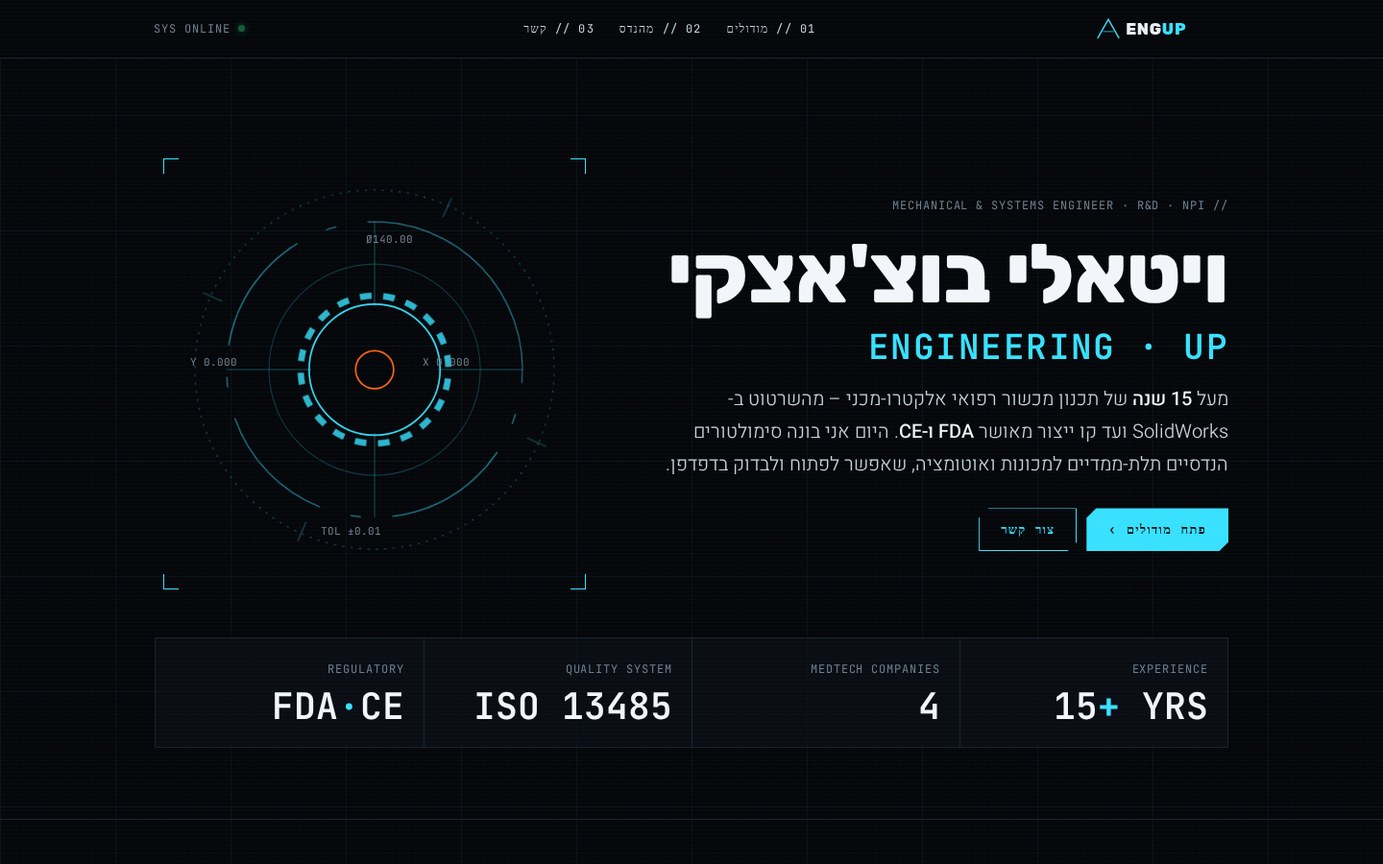
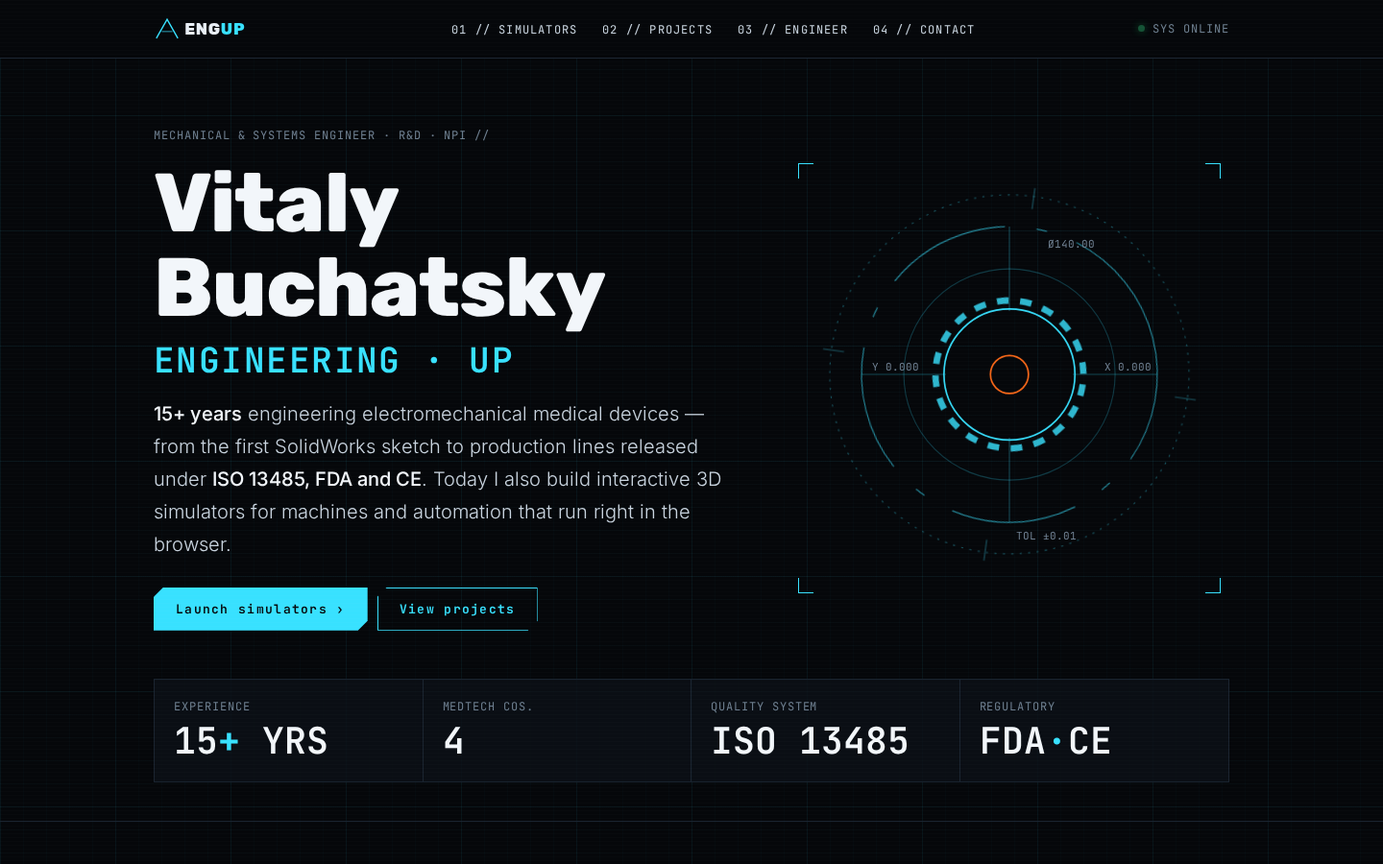
English LTR, Projects & Designs gallery from base44 + lightbox, mobile menu, telemetry label fix

diff --git a/index.html b/index.html
@@ -1,12 +1,12 @@
-<!doctype html><html lang="he" dir="rtl"><head><meta charset="utf-8"><meta name="viewport" content="width=device-width,initial-scale=1">
-<title>EngUp · ויטאלי בוצ'אצקי · הנדסת מערכות ומכונות</title>
-<meta name="description" content="EngUp – ויטאלי בוצ'אצקי, מהנדס מערכות ומכונות, מוביל R&D ו-NPI במכשור רפואי. סימולטורים הנדסיים אינטראקטיביים.">
+<!doctype html><html lang="en" dir="ltr"><head><meta charset="utf-8"><meta name="viewport" content="width=device-width,initial-scale=1">
+<title>EngUp · Vitaly Buchatsky · Mechanical &amp; Systems Engineer</title>
+<meta name="description" content="EngUp — Vitaly Buchatsky, mechanical &amp; systems engineer. 15+ years of electromechanical medical device R&amp;D and NPI. Interactive engineering simulators and design portfolio.">
 <meta name="theme-color" content="#05070A"><link rel="icon" href="favicon.svg" type="image/svg+xml">
-<link rel="preconnect" href="https://fonts.googleapis.com"><link href="https://fonts.googleapis.com/css2?family=Heebo:wght@300;400;500;700&family=Rubik:wght@600;800&family=JetBrains+Mono:wght@400;600&display=swap" rel="stylesheet">
+<link rel="preconnect" href="https://fonts.googleapis.com"><link href="https://fonts.googleapis.com/css2?family=Inter:wght@300;400;500;700&family=Rubik:wght@600;800&family=JetBrains+Mono:wght@400;600&display=swap" rel="stylesheet">
 <style>
 :root{--bg:#05070A;--p:#0B1016;--ln:#1A2430;--tx:#C9D4DF;--hi:#F2F6FA;--mu:#6E7F90;--ac:#38E1FF;--or:#FF6B1A;--m:'JetBrains Mono',monospace}
 *{box-sizing:border-box}html{scroll-behavior:smooth}
-body{margin:0;background:var(--bg);color:var(--tx);font:16px/1.7 Heebo,sans-serif;overflow-x:hidden}
+body{margin:0;background:var(--bg);color:var(--tx);font:16px/1.7 Inter,sans-serif;overflow-x:hidden}
 body:before{content:"";position:fixed;inset:0;pointer-events:none;z-index:0;background-image:linear-gradient(#38e1ff0b 1px,transparent 1px),linear-gradient(90deg,#38e1ff0b 1px,transparent 1px),linear-gradient(#38e1ff05 1px,transparent 1px),linear-gradient(90deg,#38e1ff05 1px,transparent 1px);background-size:120px 120px,120px 120px,24px 24px,24px 24px}
 body:after{content:"";position:fixed;inset:0;pointer-events:none;z-index:50;background:repeating-linear-gradient(0deg,#fff0 0 3px,#ffffff04 3px 4px)}
 main,nav,footer{position:relative;z-index:1}
@@ -21,17 +21,17 @@ nav ul a{color:var(--tx);text-decoration:none;font-family:var(--m);font-size:12p
 .hero{padding:70px 0 40px;position:relative;min-height:88vh;display:flex;align-items:center}
 .hg{display:grid;grid-template-columns:1.15fr .85fr;gap:40px;align-items:center}
 .hero h1{font-size:clamp(42px,8vw,86px);line-height:1.02;letter-spacing:-.01em;margin:18px 0}
-.hero h1 em{font-style:normal;display:block;font-size:.42em;font-weight:600;color:var(--ac);font-family:var(--m);letter-spacing:.04em;margin-top:12px;direction:ltr;text-align:right}
+.hero h1 em{font-style:normal;display:block;font-size:.42em;font-weight:600;color:var(--ac);font-family:var(--m);letter-spacing:.04em;margin-top:12px;}
 .lead{font-size:clamp(17px,2vw,20px);font-weight:300;max-width:620px;color:var(--tx)}
 .lead b{color:var(--hi);font-weight:500}
-.btn{display:inline-flex;gap:10px;align-items:center;padding:13px 22px;font:600 13px var(--m);letter-spacing:.1em;text-decoration:none;border:1px solid var(--ac);color:var(--bg);background:var(--ac);margin:8px 0 0 10px;clip-path:polygon(10px 0,100% 0,100% calc(100% - 10px),calc(100% - 10px) 100%,0 100%,0 10px);transition:.25s}
+.btn{display:inline-flex;gap:10px;align-items:center;padding:13px 22px;font:600 13px var(--m);letter-spacing:.1em;text-decoration:none;border:1px solid var(--ac);color:var(--bg);background:var(--ac);margin:8px 10px 0 0;clip-path:polygon(10px 0,100% 0,100% calc(100% - 10px),calc(100% - 10px) 100%,0 100%,0 10px);transition:.25s}
 .btn:hover{box-shadow:0 0 30px #38e1ff66;transform:translateY(-2px)}.btn.o{background:transparent;color:var(--ac)}
 .hud{position:relative;aspect-ratio:1;max-width:440px;width:100%;margin:auto}
 .hud svg{width:100%;height:100%;overflow:visible}.rot{transform-origin:200px 200px;animation:r 40s linear infinite}.rot2{transform-origin:200px 200px;animation:r 22s linear infinite reverse}@keyframes r{to{transform:rotate(360deg)}}
 .corner{position:absolute;width:16px;height:16px;border:1px solid var(--ac)}.c1{top:0;right:0;border-width:1px 1px 0 0}.c2{top:0;left:0;border-width:1px 0 0 1px}.c3{bottom:0;right:0;border-width:0 1px 1px 0}.c4{bottom:0;left:0;border-width:0 0 1px 1px}
 .tel{display:grid;grid-template-columns:repeat(4,1fr);border:1px solid var(--ln);background:#0b1016cc;margin-top:50px}
-.tel div{padding:18px 20px;border-left:1px solid var(--ln)}.tel div:last-child{border-left:0}
-.tel b{display:block;font:600 clamp(24px,3.4vw,38px) var(--m);color:var(--hi);direction:ltr;text-align:right}.tel b i{font-style:normal;color:var(--ac)}
+.tel div{padding:18px 20px;border-right:1px solid var(--ln);min-width:0}.tel div:last-child{border-right:0}.tel .m{display:block;white-space:nowrap;overflow:hidden;text-overflow:ellipsis}
+.tel b{display:block;font:600 clamp(24px,3.4vw,38px) var(--m);color:var(--hi)}.tel b i{font-style:normal;color:var(--ac)}
 section{padding:90px 0;border-top:1px solid var(--ln)}
 .sh{display:flex;align-items:baseline;gap:16px;margin-bottom:12px;flex-wrap:wrap}.sh .m{color:var(--ac);font-size:13px}
 h2{font-size:clamp(28px,4.5vw,44px)}.sub{color:var(--mu);margin:0 0 40px;max-width:640px}
@@ -47,25 +47,43 @@ h2{font-size:clamp(28px,4.5vw,44px)}.sub{color:var(--mu);margin:0 0 40px;max-wid
 .add{border:1px dashed var(--ln);display:flex;align-items:center;justify-content:center;min-height:200px;text-align:center}
 .cols{display:grid;grid-template-columns:1fr 1fr;gap:50px}
 .spec{border:1px solid var(--ln);background:var(--p)}.spec div{display:flex;justify-content:space-between;gap:16px;padding:12px 16px;border-bottom:1px solid var(--ln)}.spec div:last-child{border:0}
-.spec span:last-child{color:var(--hi);text-align:left}
-.tl{position:relative;padding-right:24px;border-right:1px solid var(--ln)}
-.tl div{position:relative;margin-bottom:26px}.tl div:before{content:"";position:absolute;right:-29px;top:8px;width:9px;height:9px;background:var(--bg);border:1px solid var(--ac);transform:rotate(45deg)}
+.spec span:last-child{color:var(--hi);text-align:right}
+.tl{position:relative;padding-left:24px;border-left:1px solid var(--ln)}
+.tl div{position:relative;margin-bottom:26px}.tl div:before{content:"";position:absolute;left:-29px;top:8px;width:9px;height:9px;background:var(--bg);border:1px solid var(--ac);transform:rotate(45deg)}
 .tl div:first-child:before{background:var(--ac);box-shadow:0 0 12px var(--ac)}
-.tl b{color:var(--hi);font-size:18px;font-family:Rubik}.tl .m{display:block;direction:ltr;text-align:right}
+.tl b{color:var(--hi);font-size:18px;font-family:Rubik}.tl .m{display:block}
 .ct a{display:flex;justify-content:space-between;align-items:center;padding:20px;border:1px solid var(--ln);background:var(--p);color:var(--hi);text-decoration:none;margin-bottom:12px;transition:.25s;font-family:var(--m);font-size:15px}
 .ct a:hover{border-color:var(--ac);color:var(--ac)}
 footer{border-top:1px solid var(--ln);padding:26px 0}footer .w{display:flex;justify-content:space-between;flex-wrap:wrap;gap:10px}
 .rv{opacity:0;transform:translateY(24px);transition:opacity .8s,transform .8s}.rv.in{opacity:1;transform:none}
-@media(max-width:820px){.hg,.cols{grid-template-columns:1fr}.hud{max-width:300px;order:-1}.hero{min-height:0;padding-top:40px}nav ul{display:none}.tel{grid-template-columns:1fr 1fr}.tel div:nth-child(2){border-left:0}.tel div:nth-child(-n+2){border-bottom:1px solid var(--ln)}.grid{grid-template-columns:1fr}section{padding:64px 0}}
+
+.mb{display:none;background:none;border:1px solid var(--ln);color:var(--ac);width:40px;height:40px;cursor:pointer;font:600 18px var(--m)}
+.dg{margin-bottom:56px;border:1px solid var(--ln);background:#0b1016cc}
+.dgh{display:grid;grid-template-columns:1.2fr 1fr;gap:0;border-bottom:1px solid var(--ln)}
+.dgh>div{padding:22px 24px}.dgh>div+div{border-left:1px solid var(--ln)}
+.dgh h3{font-size:clamp(20px,2.6vw,28px);margin:6px 0 10px}.dgh p{margin:0;font-weight:300;font-size:15px}
+.dgh .id{color:var(--c)}.dgh .spec{border:0;background:none}.dgh .spec div{padding:9px 0}
+.gal{display:grid;grid-template-columns:repeat(auto-fill,minmax(210px,1fr));gap:2px;background:#070a0e;grid-auto-flow:dense}
+.gal button{all:unset;cursor:zoom-in;position:relative;background:#070a0e;aspect-ratio:4/3;overflow:hidden;display:block}
+.gal button:first-child{grid-column:span 2;grid-row:span 2}
+.gal img{width:100%;height:100%;object-fit:cover;display:block;transition:.6s;filter:saturate(.9)}
+.gal button:hover img,.gal button:focus-visible img{transform:scale(1.06);filter:none}
+.gal button:focus-visible{outline:2px solid var(--c);outline-offset:-2px}
+.gal span{position:absolute;left:0;right:0;bottom:0;padding:22px 10px 8px;background:linear-gradient(transparent,#05070Aee);font:11px var(--m);letter-spacing:.08em;text-transform:uppercase;color:var(--tx)}
+.lb{position:fixed;inset:0;z-index:100;background:#03050Af2;display:none;align-items:center;justify-content:center;flex-direction:column;padding:56px 16px 20px}
+.lb.on{display:flex}.lb img{max-width:100%;max-height:calc(100vh - 130px);object-fit:contain;border:1px solid var(--ln)}
+.lb p{margin:12px 0 0;text-align:center}.lb button{position:absolute;background:#0b1016;border:1px solid var(--ln);color:var(--ac);width:46px;height:46px;font:20px var(--m);cursor:pointer}
+.lb .x{top:10px;right:10px}.lb .pv{left:10px;top:50%}.lb .nx{right:10px;top:50%}
+@media(max-width:820px){.mb{display:block}nav .st{display:none}nav ul.op{display:flex;position:absolute;top:60px;left:0;right:0;flex-direction:column;gap:0;background:#05070Af5;border-bottom:1px solid var(--ln)}nav ul.op a{display:block;padding:16px 20px;border-top:1px solid var(--ln)}.dgh{grid-template-columns:1fr}.dgh>div+div{border-left:0;border-top:1px solid var(--ln)}.gal{grid-template-columns:1fr 1fr}.lb .pv,.lb .nx{top:auto;bottom:14px}.hg,.cols{grid-template-columns:1fr}.hud{max-width:300px;order:-1}.hero{min-height:0;padding-top:40px}nav ul{display:none}.tel{grid-template-columns:1fr 1fr}.tel div:nth-child(2){border-right:0}.tel div:nth-child(-n+2){border-bottom:1px solid var(--ln)}.tel div{padding:14px}.tel .m{font-size:10px;letter-spacing:.04em}.grid{grid-template-columns:1fr}section{padding:64px 0}}
 @media(prefers-reduced-motion:reduce){*{animation:none!important;transition:none!important}.rv{opacity:1;transform:none}html{scroll-behavior:auto}}
 </style></head><body>
-<nav><div class="w"><a href="#"><img src="logo.svg" alt="EngUp"></a><ul><li><a href="#projects">01 // מודולים</a></li><li><a href="#about">02 // מהנדס</a></li><li><a href="#contact">03 // קשר</a></li></ul><span class="st m"><i class="dot"></i>SYS ONLINE</span></div></nav>
+<nav><div class="w"><a href="#"><img src="logo.svg" alt="EngUp"></a><ul id="nm"><li><a href="#projects">01 // SIMULATORS</a></li><li><a href="#designs">02 // PROJECTS</a></li><li><a href="#about">03 // ENGINEER</a></li><li><a href="#contact">04 // CONTACT</a></li></ul><span class="st m"><i class="dot"></i>SYS ONLINE</span><button class="mb" id="mb" aria-label="Menu" aria-expanded="false" aria-controls="nm">☰</button></div></nav>
 <main>
 <header class="hero"><div class="w"><div class="hg"><div>
-<div class="m" dir="ltr" style="text-align:right">MECHANICAL &amp; SYSTEMS ENGINEER · R&amp;D · NPI //</div>
-<h1>ויטאלי בוצ'אצקי<em>ENGINEERING · UP</em></h1>
-<p class="lead">מעל <b>15 שנה</b> של תכנון מכשור רפואי אלקטרו-מכני – מהשרטוט ב-SolidWorks ועד קו ייצור מאושר <b>FDA ו-CE</b>. היום אני בונה סימולטורים הנדסיים תלת-ממדיים למכונות ואוטומציה, שאפשר לפתוח ולבדוק בדפדפן.</p>
-<a class="btn" href="#projects">פתח מודולים ›</a><a class="btn o" href="#contact">צור קשר</a></div>
+<div class="m">MECHANICAL &amp; SYSTEMS ENGINEER · R&amp;D · NPI //</div>
+<h1>Vitaly Buchatsky<em>ENGINEERING · UP</em></h1>
+<p class="lead"><b>15+ years</b> engineering electromechanical medical devices — from the first SolidWorks sketch to production lines released under <b>ISO 13485, FDA and CE</b>. Today I also build interactive 3D simulators for machines and automation that run right in the browser.</p>
+<a class="btn" href="#projects">Launch simulators ›</a><a class="btn o" href="#designs">View projects</a></div>
 <div class="hud" aria-hidden="true"><i class="corner c1"></i><i class="corner c2"></i><i class="corner c3"></i><i class="corner c4"></i>
 <svg viewBox="0 0 400 400" fill="none" stroke="#38E1FF">
 <g class="rot" stroke-opacity=".35"><circle cx="200" cy="200" r="170" stroke-dasharray="2 6"/><path d="M200 22v20M200 358v20M22 200h20M358 200h20"/></g>
@@ -76,33 +94,44 @@ footer{border-top:1px solid var(--ln);padding:26px 0}footer .w{display:flex;just
 <path d="M60 200H140M260 200h80M200 60v80M200 260v80" stroke-opacity=".3"/>
 <g font-family="JetBrains Mono" font-size="10" fill="#6E7F90" stroke="none"><text x="236" y="80">Ø140.00</text><text x="290" y="196">X 0.000</text><text x="70" y="196">Y 0.000</text><text x="206" y="356">TOL ±0.01</text></g>
 </svg></div></div>
-<div class="tel"><div><span class="m">EXPERIENCE</span><b><span class="cnt" data-n="15">15</span><i>+</i> YRS</b></div><div><span class="m">MEDTECH COMPANIES</span><b class="cnt" data-n="4">4</b></div><div><span class="m">QUALITY SYSTEM</span><b>ISO<i> </i>13485</b></div><div><span class="m">REGULATORY</span><b>FDA<i>·</i>CE</b></div></div>
+<div class="tel"><div><span class="m">EXPERIENCE</span><b><span class="cnt" data-n="15">15</span><i>+</i> YRS</b></div><div><span class="m">MEDTECH COS.</span><b class="cnt" data-n="4">4</b></div><div><span class="m">QUALITY SYSTEM</span><b>ISO<i> </i>13485</b></div><div><span class="m">REGULATORY</span><b>FDA<i>·</i>CE</b></div></div>
 </div></header>
-<section id="projects"><div class="w"><div class="sh"><span class="m">01 //</span><h2>מודולים הנדסיים</h2></div><p class="sub">סימולטורים אינטראקטיביים שבניתי – כל אחד מתועד כמו גיליון מפרט. לחצו, פרקו מכלולים ובדקו בעצמכם.</p><div class="grid" id="grid"></div></div></section>
-<section id="about"><div class="w"><div class="sh"><span class="m">02 //</span><h2>פרופיל המהנדס</h2></div><p class="sub">מהנדס מערכות ומוביל R&amp;D ו-NPI: תכנון מוצרים רפואיים אלקטרו-מכניים, הקמת קווי ייצור, ניהול ECO ועמידה בתקני ISO 13485, FDA ו-CE.</p>
+<section id="projects"><div class="w"><div class="sh"><span class="m">01 //</span><h2>Engineering Simulators</h2></div><p class="sub">Interactive simulators I built, each documented like a spec sheet. Open one, explode the assemblies and inspect every mechanism yourself.</p><div class="grid" id="grid"></div></div></section>
+<section id="designs"><div class="w"><div class="sh"><span class="m">02 //</span><h2>Projects &amp; Designs</h2></div><p class="sub">Hardware from the bench: test fixtures, medical wearables, tooling, aerodynamics and consumer products. Click any image to inspect it full-size.</p><div id="dgs"></div></div></section>
+<section id="about"><div class="w"><div class="sh"><span class="m">03 //</span><h2>Engineer Profile</h2></div><p class="sub">Systems engineer and R&amp;D / NPI leader: electromechanical medical product design, production-line build-out (leading 7 technicians and 2 engineers at Medasense), ECO and configuration management, and compliance with ISO 13485, FDA and CE.</p>
 <div class="cols"><div class="tl">
 <div><span class="m">2021 — NOW</span><b>Medasense</b> · R&amp;D &amp; NPI Leader</div>
 <div><span class="m">2020 — 2021</span><b>Innovalve Bio-Medical</b> · NPI Leader</div>
 <div><span class="m">2012 — 2020</span><b>ART Medical</b> · R&amp;D &amp; NPI Leader</div>
 <div><span class="m">2011 — 2012</span><b>Inseal Medical</b> · Mechanical Engineer</div>
-<div><span class="m">2008 — 2025</span><b>פרילנס</b> · יועץ ומתכנן SolidWorks</div></div>
+<div><span class="m">2008 — 2025</span><b>Freelance</b> · R&amp;D / NPI Consultant &amp; SolidWorks Designer</div></div>
 <div class="spec">
-<div><span class="m">M.Sc.</span><span>הנדסה וניהול, אפקה (בהצטיינות)</span></div>
-<div><span class="m">B.Sc.</span><span>הנדסה רפואית, אפקה</span></div>
-<div><span class="m">TECH.</span><span>הנדסאי מכונות, שבח מופת</span></div>
-<div><span class="m">CAD / VIS</span><span dir="ltr">SolidWorks · Keyshot</span></div>
-<div><span class="m">OPS</span><span dir="ltr">Priority ERP · Monday · Visio</span></div>
-<div><span class="m">LANG</span><span>עברית · אנגלית · רוסית</span></div></div></div></div></section>
-<section id="contact"><div class="w"><div class="sh"><span class="m">03 //</span><h2>פתיחת ערוץ</h2></div><p class="sub">בת ים, ישראל · זמין לפרויקטים של תכנון מכני, NPI וסימולציה.</p>
-<div class="cols ct"><div><a href="mailto:vbuchatsky@gmail.com"><span>vbuchatsky@gmail.com</span><span class="m">EMAIL ›</span></a><a href="tel:+972547866830"><span dir="ltr">+972 54 786 6830</span><span class="m">PHONE ›</span></a></div>
-<div><a href="https://vit.base44.app" target="_blank" rel="noopener"><span>קורות חיים מלאים</span><span class="m">CV ›</span></a></div></div></div></section>
+<div><span class="m">M.Sc.</span><span>Engineering &amp; Management, Afeka — with honors</span></div>
+<div><span class="m">B.Sc.</span><span>Medical Engineering, Afeka</span></div>
+<div><span class="m">TECH.</span><span>Practical Mechanical Engineer, Shevach Moffet</span></div>
+<div><span class="m">CAD / VIS</span><span>SolidWorks · Keyshot</span></div>
+<div><span class="m">OPS</span><span>Priority ERP · Monday · Visio</span></div>
+<div><span class="m">LANG</span><span>Hebrew · English · Russian</span></div></div></div></div></section>
+<section id="contact"><div class="w"><div class="sh"><span class="m">04 //</span><h2>Open a Channel</h2></div><p class="sub">Bat Yam, Israel · Available for mechanical design, NPI and simulation projects.</p>
+<div class="cols ct"><div><a href="mailto:vbuchatsky@gmail.com"><span>vbuchatsky@gmail.com</span><span class="m">EMAIL ›</span></a><a href="tel:+972547866830"><span>+972 54 786 6830</span><span class="m">PHONE ›</span></a></div>
+<div><a href="https://vit.base44.app" target="_blank" rel="noopener"><span>Full CV</span><span class="m">CV ›</span></a></div></div></div></section>
 </main>
 <footer><div class="w"><span class="m">© 2026 EngUp · Vitaly Buchatsky</span><span class="m">BUILD 2.0 · TLV 32.0°N 34.7°E</span></div></footer>
-<script src="projects.js"></script>
+<script src="projects.js"></script><script src="designs.js"></script>
 <script>
-const g=document.getElementById('grid');g.innerHTML=PROJECTS.map((p,i)=>`<article class="card" style="--c:${p.color||'#38E1FF'}"><div class="ch"><span class="m">MOD-${String(i+1).padStart(2,'0')}</span><span class="m">${p.tag||''}</span></div><a class="im" href="${p.url}" target="_blank" rel="noopener"><img src="${p.img}" alt="${p.title}" loading="lazy"></a><div class="cb"><h3>${p.title}</h3><p>${p.desc}</p><a class="btn" href="${p.url}" target="_blank" rel="noopener">הפעל סימולטור ›</a></div></article>`).join('')+`<div class="add m">MOD-${String(PROJECTS.length+1).padStart(2,'0')} // IN DEVELOPMENT</div>`;
+const g=document.getElementById('grid');g.innerHTML=PROJECTS.map((p,i)=>`<article class="card" style="--c:${p.color||'#38E1FF'}"><div class="ch"><span class="m">MOD-${String(i+1).padStart(2,'0')}</span><span class="m">${p.tag||''}</span></div><a class="im" href="${p.url}" target="_blank" rel="noopener"><img src="${p.img}" alt="${p.title}" loading="lazy"></a><div class="cb"><h3>${p.title}</h3><p>${p.desc}</p><a class="btn" href="${p.url}" target="_blank" rel="noopener">Launch simulator ›</a></div></article>`).join('')+`<div class="add m">MOD-${String(PROJECTS.length+1).padStart(2,'0')} // IN DEVELOPMENT</div>`;
+const esc=t=>String(t).replace(/[&<>"]/g,c=>({'&':'&amp;','<':'&lt;','>':'&gt;','"':'&quot;'}[c]));
+const FLAT=[];document.getElementById('dgs').innerHTML=DESIGNS.map(d=>`<article class="dg" style="--c:${d.color}"><div class="dgh"><div><span class="m id">${d.id} // ${esc(d.tag)}</span><h3>${esc(d.title)}</h3><p>${esc(d.desc)}</p></div><div class="spec">${d.spec.map(([k,v])=>`<div><span class="m">${k}</span><span>${esc(v)}</span></div>`).join('')}<div><span class="m">FIGURES</span><span>${d.imgs.length}</span></div></div></div><div class="gal">${d.imgs.map(([f,c],j)=>{const n=FLAT.push({f,c:`${d.id} · FIG.${String(j+1).padStart(2,'0')}${c?' — '+c:''}`,t:d.title})-1;return `<button data-i="${n}" aria-label="${esc(d.title)} figure ${j+1}"><img src="img/designs/${f}.jpg" alt="${esc(d.title)}${c?' — '+esc(c):''}" loading="lazy">${c?`<span>${esc(c)}</span>`:''}</button>`}).join('')}</div></article>`).join('');
+const lb=document.createElement('div');lb.className='lb';lb.setAttribute('role','dialog');lb.innerHTML='<button class="x" aria-label="Close">✕</button><button class="pv" aria-label="Previous">‹</button><img alt=""><p class="m"></p><button class="nx" aria-label="Next">›</button>';document.body.appendChild(lb);
+let cur=0;const show=i=>{cur=(i+FLAT.length)%FLAT.length;const x=FLAT[cur];lb.querySelector('img').src=`img/designs/${x.f}.jpg`;lb.querySelector('img').alt=x.t;lb.querySelector('p').textContent=x.t+' · '+x.c;lb.classList.add('on');document.body.style.overflow='hidden'};
+const hide=()=>{lb.classList.remove('on');document.body.style.overflow=''};
+document.getElementById('dgs').addEventListener('click',e=>{const b=e.target.closest('button[data-i]');if(b)show(+b.dataset.i)});
+lb.addEventListener('click',e=>{if(e.target===lb||e.target.classList.contains('x'))hide();else if(e.target.classList.contains('pv'))show(cur-1);else if(e.target.classList.contains('nx'))show(cur+1)});
+addEventListener('keydown',e=>{if(!lb.classList.contains('on'))return;if(e.key==='Escape')hide();if(e.key==='ArrowLeft')show(cur-1);if(e.key==='ArrowRight')show(cur+1)});
+let tx=0;lb.addEventListener('touchstart',e=>tx=e.touches[0].clientX,{passive:true});lb.addEventListener('touchend',e=>{const d=e.changedTouches[0].clientX-tx;if(Math.abs(d)>50)show(cur+(d<0?1:-1))});
+const mb=document.getElementById('mb'),nm=document.getElementById('nm');mb.onclick=()=>{const o=nm.classList.toggle('op');mb.setAttribute('aria-expanded',o);mb.textContent=o?'✕':'☰'};nm.addEventListener('click',e=>{if(e.target.tagName==='A'){nm.classList.remove('op');mb.textContent='☰';mb.setAttribute('aria-expanded',false)}});
 const red=matchMedia('(prefers-reduced-motion: reduce)').matches;
-document.querySelectorAll('.sh,.sub,.card,.add,.tl div,.spec,.ct a,.tel').forEach(e=>e.classList.add('rv'));
+document.querySelectorAll('.sh,.sub,.card,.add,.tl div,.cols>.spec,.ct a,.tel,.dg').forEach(e=>e.classList.add('rv'));
 const io=new IntersectionObserver(es=>es.forEach(x=>{if(!x.isIntersecting)return;x.target.classList.add('in');io.unobserve(x.target);x.target.querySelectorAll?.('.cnt').forEach(c=>{if(red)return;const n=+c.dataset.n;let t=0;const s=()=>{t++;c.textContent=Math.round(n*t/30);if(t<30)requestAnimationFrame(s)};s()})}),{threshold:.12});
 document.querySelectorAll('.rv').forEach(e=>io.observe(e));
 if(!red){const h=document.querySelector('.hud');addEventListener('scroll',()=>{h.style.transform=`translateY(${scrollY*.15}px)`},{passive:true})}

diff --git a/designs.js b/designs.js
@@ -1,0 +1,31 @@
+// Projects & Designs. Add a project: push an object; images go in img/designs/
+window.DESIGNS = [
+ { id:"PRJ-01", title:"Guinness World Record Attempt — RC Speed Car", tag:"Aerodynamics · CFD · Mentorship", color:"#FF6B1A",
+   spec:[["TARGET","380 km/h"],["VERIFIED","330 km/h"],["ASSEMBLY","~150 parts"],["CANOPY","Carbon fiber"]],
+   desc:"Engineering mentorship of an initiative to break the Guinness World Record for RC car speed. Chassis and drivetrain built to survive extreme loads and vibration; CFD used to evaluate 10–20 canopy configurations for downforce versus drag. Precision parts via CNC, 3D printing and composites, with a full BOM, assembly instructions and product file. Delivered in close collaboration with a young adult on the autism spectrum — technical challenge as a tool for empowerment. Development ongoing.",
+   imgs:[["rc-1","Concept visualization"],["rc-2","Concept visualization"],["rc-4","CFD flow simulation"],["rc-5","Chassis & drivetrain"],["rc-3","Prototype"]] },
+ { id:"PRJ-02", title:"Reflux Simulation Jig", tag:"ART Medical · Test Equipment", color:"#38E1FF",
+   spec:[["DWG","AFX00-219"],["CLIENT","ART Medical"],["DRAWN","V. Buchatsky · 2019"],["DOC","Assembly + BOM"]],
+   desc:"Bench test fixture designed to simulate reflux conditions for device verification. Shown here as a technical assembly view, the released engineering drawing with bill of materials, and the jig in a lab setting.",
+   imgs:[["u-jig-render","Technical assembly view"],["reflux-3","Engineering drawing AFX00-219 · BOM"],["reflux-1","Lab setting"],["reflux-2","Device view"]] },
+ { id:"PRJ-03", title:"Disposable & Reusable Sensors", tag:"Medical Wearables", color:"#3DFF9A",
+   spec:[["TYPE","Disposable + reusable"],["FORM","Finger / hand-worn"],["CAD","SolidWorks"],["VIS","Keyshot"]],
+   desc:"Family of body-worn medical sensor designs — finger and hand-worn housings, cabled and flex-circuit variants — developed in both disposable and reusable configurations.",
+   imgs:[["sensors-1","Finger sensor"],["sensors-3","Hand-worn sensor with cable"],["sensors-2",""],["sensors-4",""],["sensors-5",""],["sensors-6",""],["sensors-7","Flex circuit"],["sensors-8",""],["sensors-9",""],["sensors-10",""],["sensors-11",""],["sensors-12",""]] },
+ { id:"PRJ-04", title:"Molds Design for RTV Silicone", tag:"Tooling · Silicone", color:"#B98CFF",
+   spec:[["PROCESS","RTV silicone casting"],["SCOPE","Mold design"]],
+   desc:"Custom mold design for room-temperature-vulcanizing silicone parts — from CAD mold halves to cast parts.",
+   imgs:[["molds-1",""],["molds-2","Mold CAD"],["molds-3",""],["molds-4",""],["molds-5",""]] },
+ { id:"PRJ-05", title:"Custom Gym Bag / Organizer", tag:"Consumer Product", color:"#FFC83D",
+   spec:[["TYPE","Consumer product"],["FEATURE","Integrated phone holder"]],
+   desc:"Custom-designed gym organizer with an integrated phone holder — product design from concept to visualization.",
+   imgs:[["gymbag-1",""],["gymbag-2",""]] },
+ { id:"PRJ-06", title:"ART Medical Designs", tag:"ICU Devices · Gastroenterology", color:"#38E1FF",
+   spec:[["COMPANY","ART Medical"],["PERIOD","2012 – 2020"]],
+   desc:"Electromechanical ICU medical device designs developed in SolidWorks during eight years as R&D and NPI leader at ART Medical.",
+   imgs:[["artmed-1","smART set"]] },
+ { id:"PRJ-07", title:"Medical Device #1", tag:"Medical Device", color:"#FF4D6D",
+   spec:[["DOMAIN","Medical device"]],
+   desc:"Medical device housing and product design concept.",
+   imgs:[["meddev-1",""],["meddev-2",""]] }
+];

diff --git a/projects.js b/projects.js
@@ -1,12 +1,12 @@
-// להוספת פרויקט: הוסף אובייקט חדש למערך (ותמונה לתיקיית img/)
+// Add a simulator: push a new object (image goes in img/)
 window.PROJECTS = [
-  { title: "עיצוב הסלון", tag: "עיצוב פנים", color: "#FF6B1A",
+  { title: "Living Room Designer", tag: "Interior · Visualization", color: "#FF6B1A",
     url: "https://vbuchatsky-source.github.io/salon-sim/", img: "img/salon.jpg",
-    desc: "מעצב סלון שעובד על התמונות האמיתיות של הסלון: סגנונות מוכנים (סקנדינבי, תעשייתי, בוהו, ים תיכוני ועוד), החלפת רצפה, קירות, קיר מודגש, ספה, וילונות ותאורה, עם השוואת לפני/אחרי והורדה ב-HD." },
-  { title: "סימולטור הלמינציה", tag: "מכונה · תלת-ממד", color: "#38E1FF",
+    desc: "Room designer that works on real photos of an actual living room: preset styles (Scandinavian, industrial, boho, Mediterranean and more), swappable flooring, walls, accent wall, sofa, curtains and lighting, with before/after comparison and HD export." },
+  { title: "Lamination Simulator", tag: "Machine · 3D", color: "#38E1FF",
     url: "https://vbuchatsky-source.github.io/lamination-sim/", img: "img/lamination.jpg",
-    desc: "סימולציית קונספט למנגנון ציפוי צינורות עם טבעת חום: ציר ליניארי עם בורג כדורי וציר סיבוב עם סרוו, צ'אק וזנב. חישוב פסיעת הליקס וזמן מחזור, פירוק מכלולים, X-ray, חתך והסברים הנדסיים." },
-  { title: "סימולטור חיתוך וסימון צינורות", tag: "אוטומציה · חדש", color: "#38E1FF",
+    desc: "Concept simulation of a heat-ring pipe-coating mechanism: ball-screw linear axis and servo-driven rotary axis with chuck and tailstock. Helix pitch and cycle-time calculation, exploded assemblies, X-ray, section view and engineering notes." },
+  { title: "Pipe Cutting & Marking Simulator", tag: "Automation · New", color: "#38E1FF",
     url: "https://vbuchatsky-source.github.io/pipe-cutter-sim/", img: "img/pipe.jpg",
-    desc: "מכונה אוטומטית לעיגול קצה, סימון סרגל בלייזר פייבר וחיתוך צינורות ל-100 מ\"מ. מתכונים לפי חומר, פרמטרים, תחנות, סיכונים ונתוני תפוקה, עם 19 רכיבים מסומנים ופירוק מכלולים." }
+    desc: "Automated cell for tube-end rounding, fiber-laser ruler marking and cutting to 100 mm. Material-based recipes, parameters, stations, risk analysis and throughput data, with 19 labeled components and exploded assemblies." }
 ];
